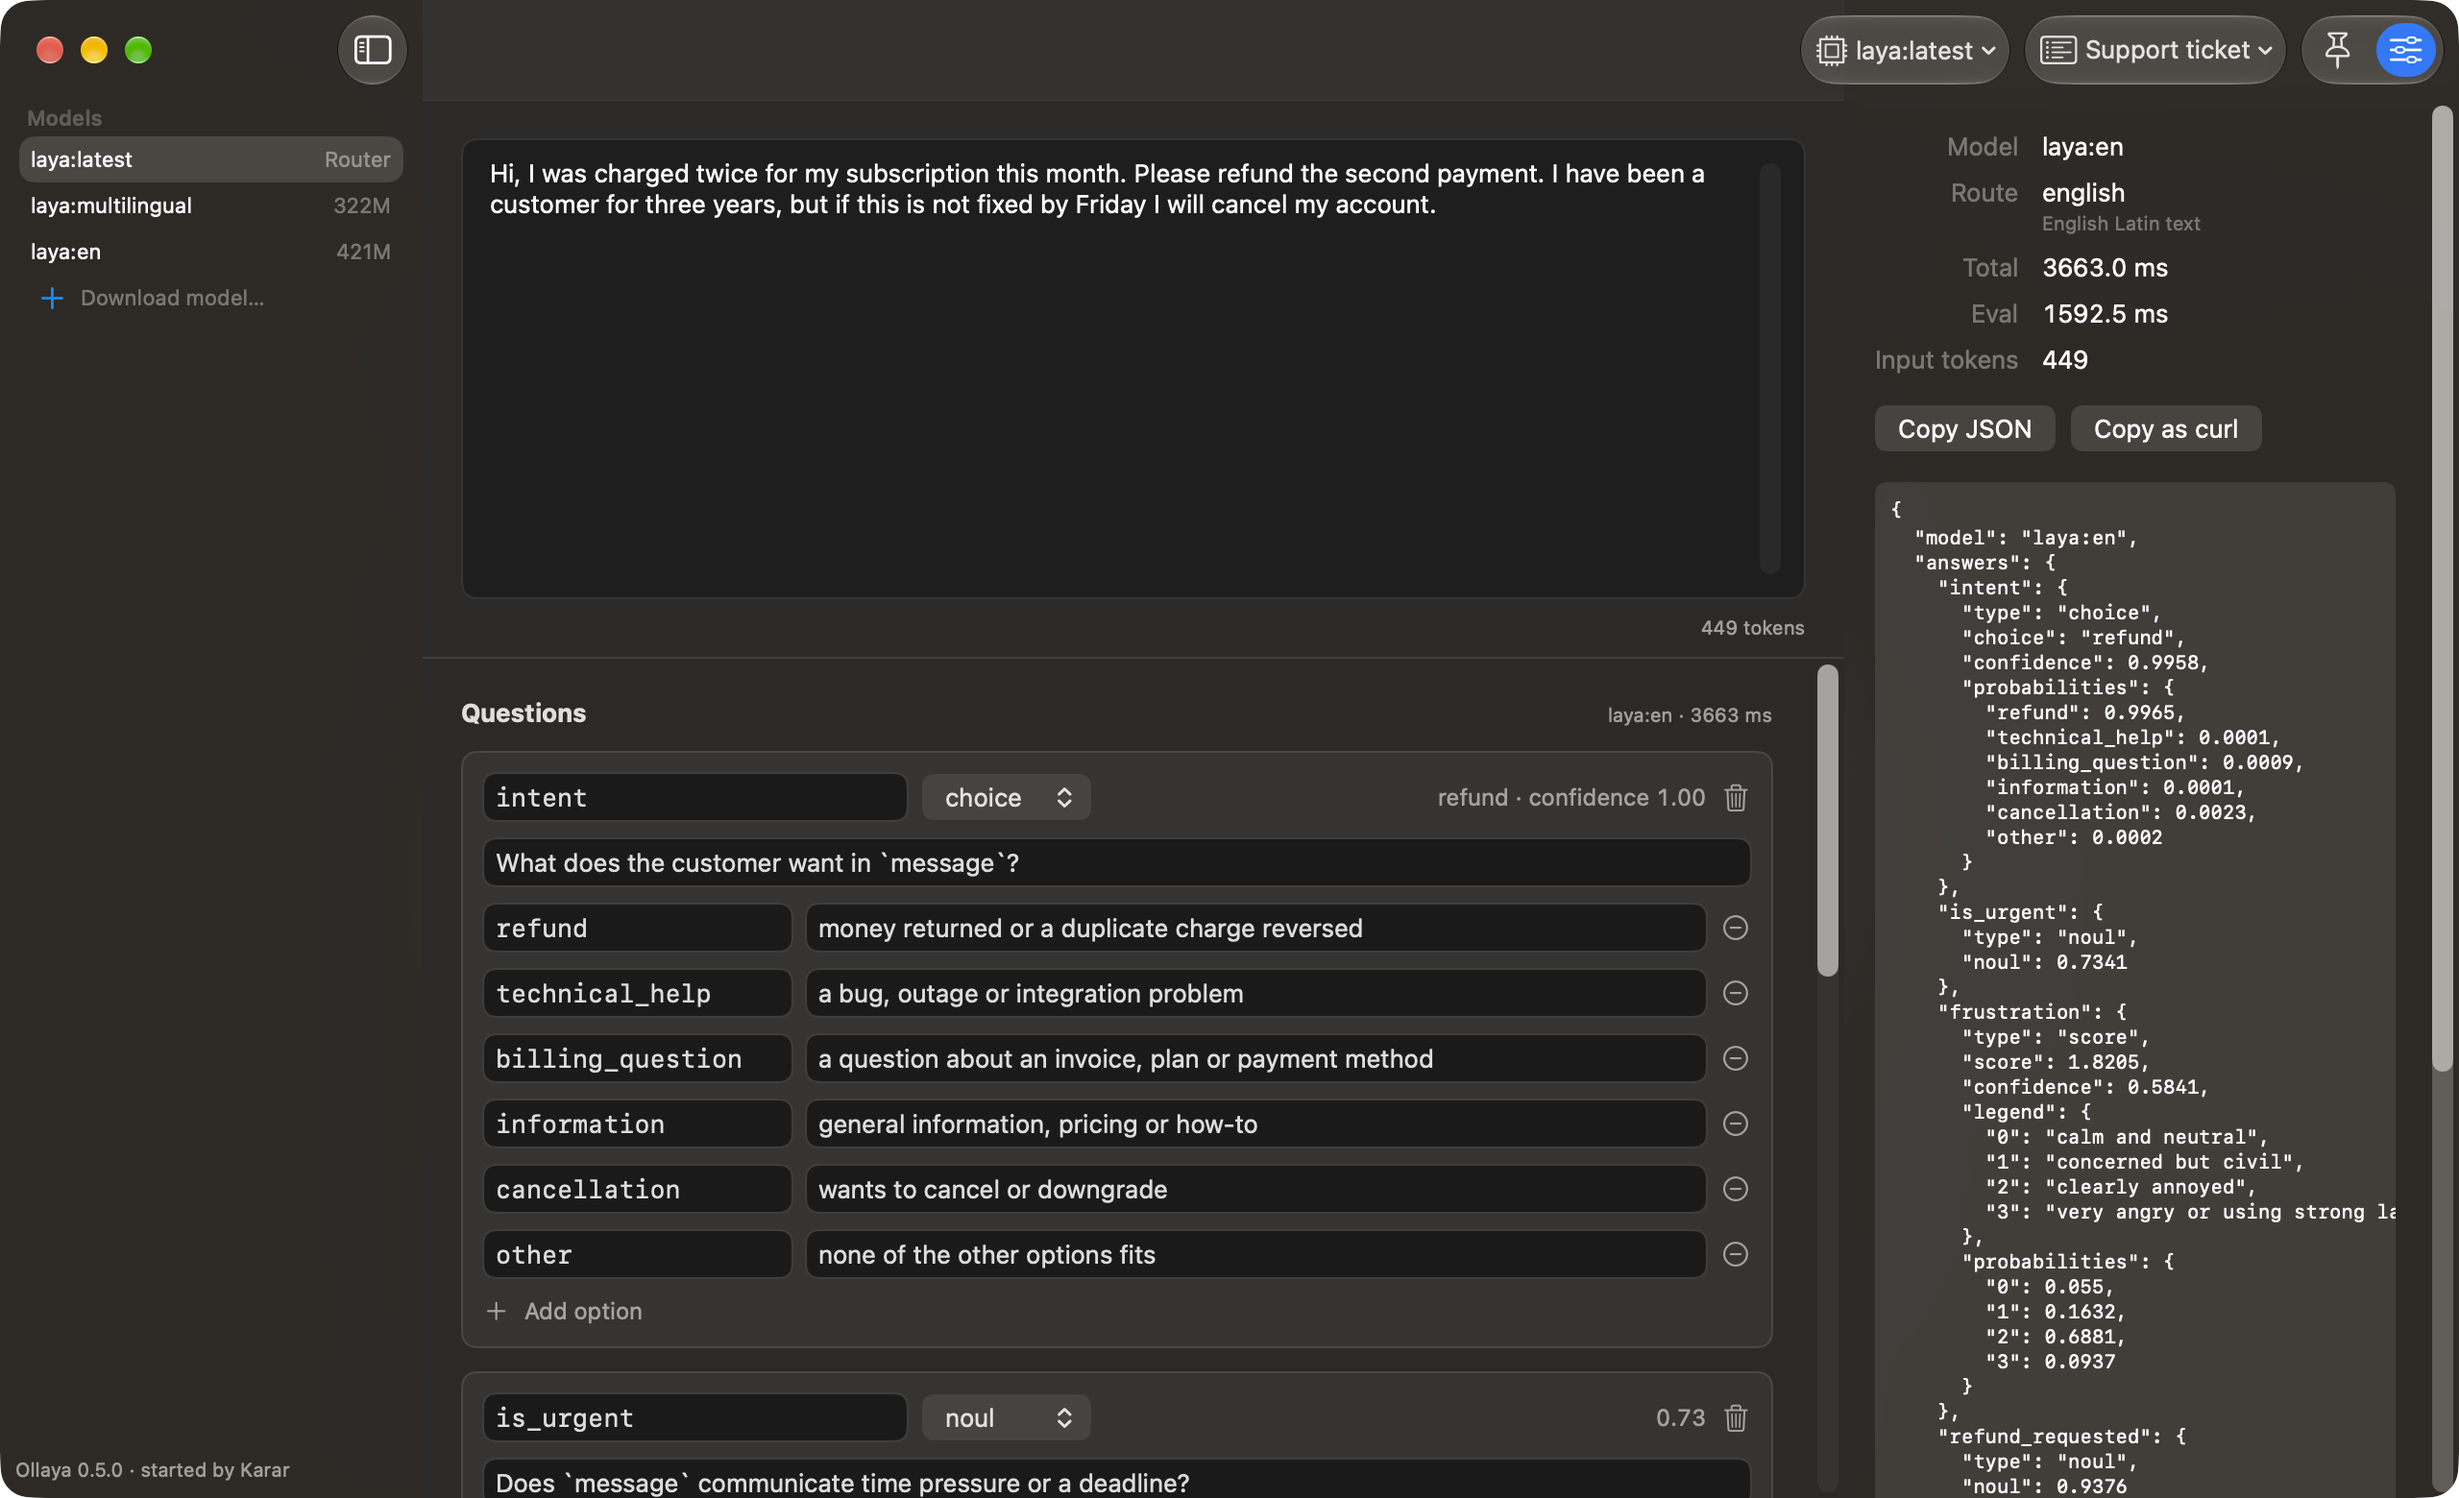
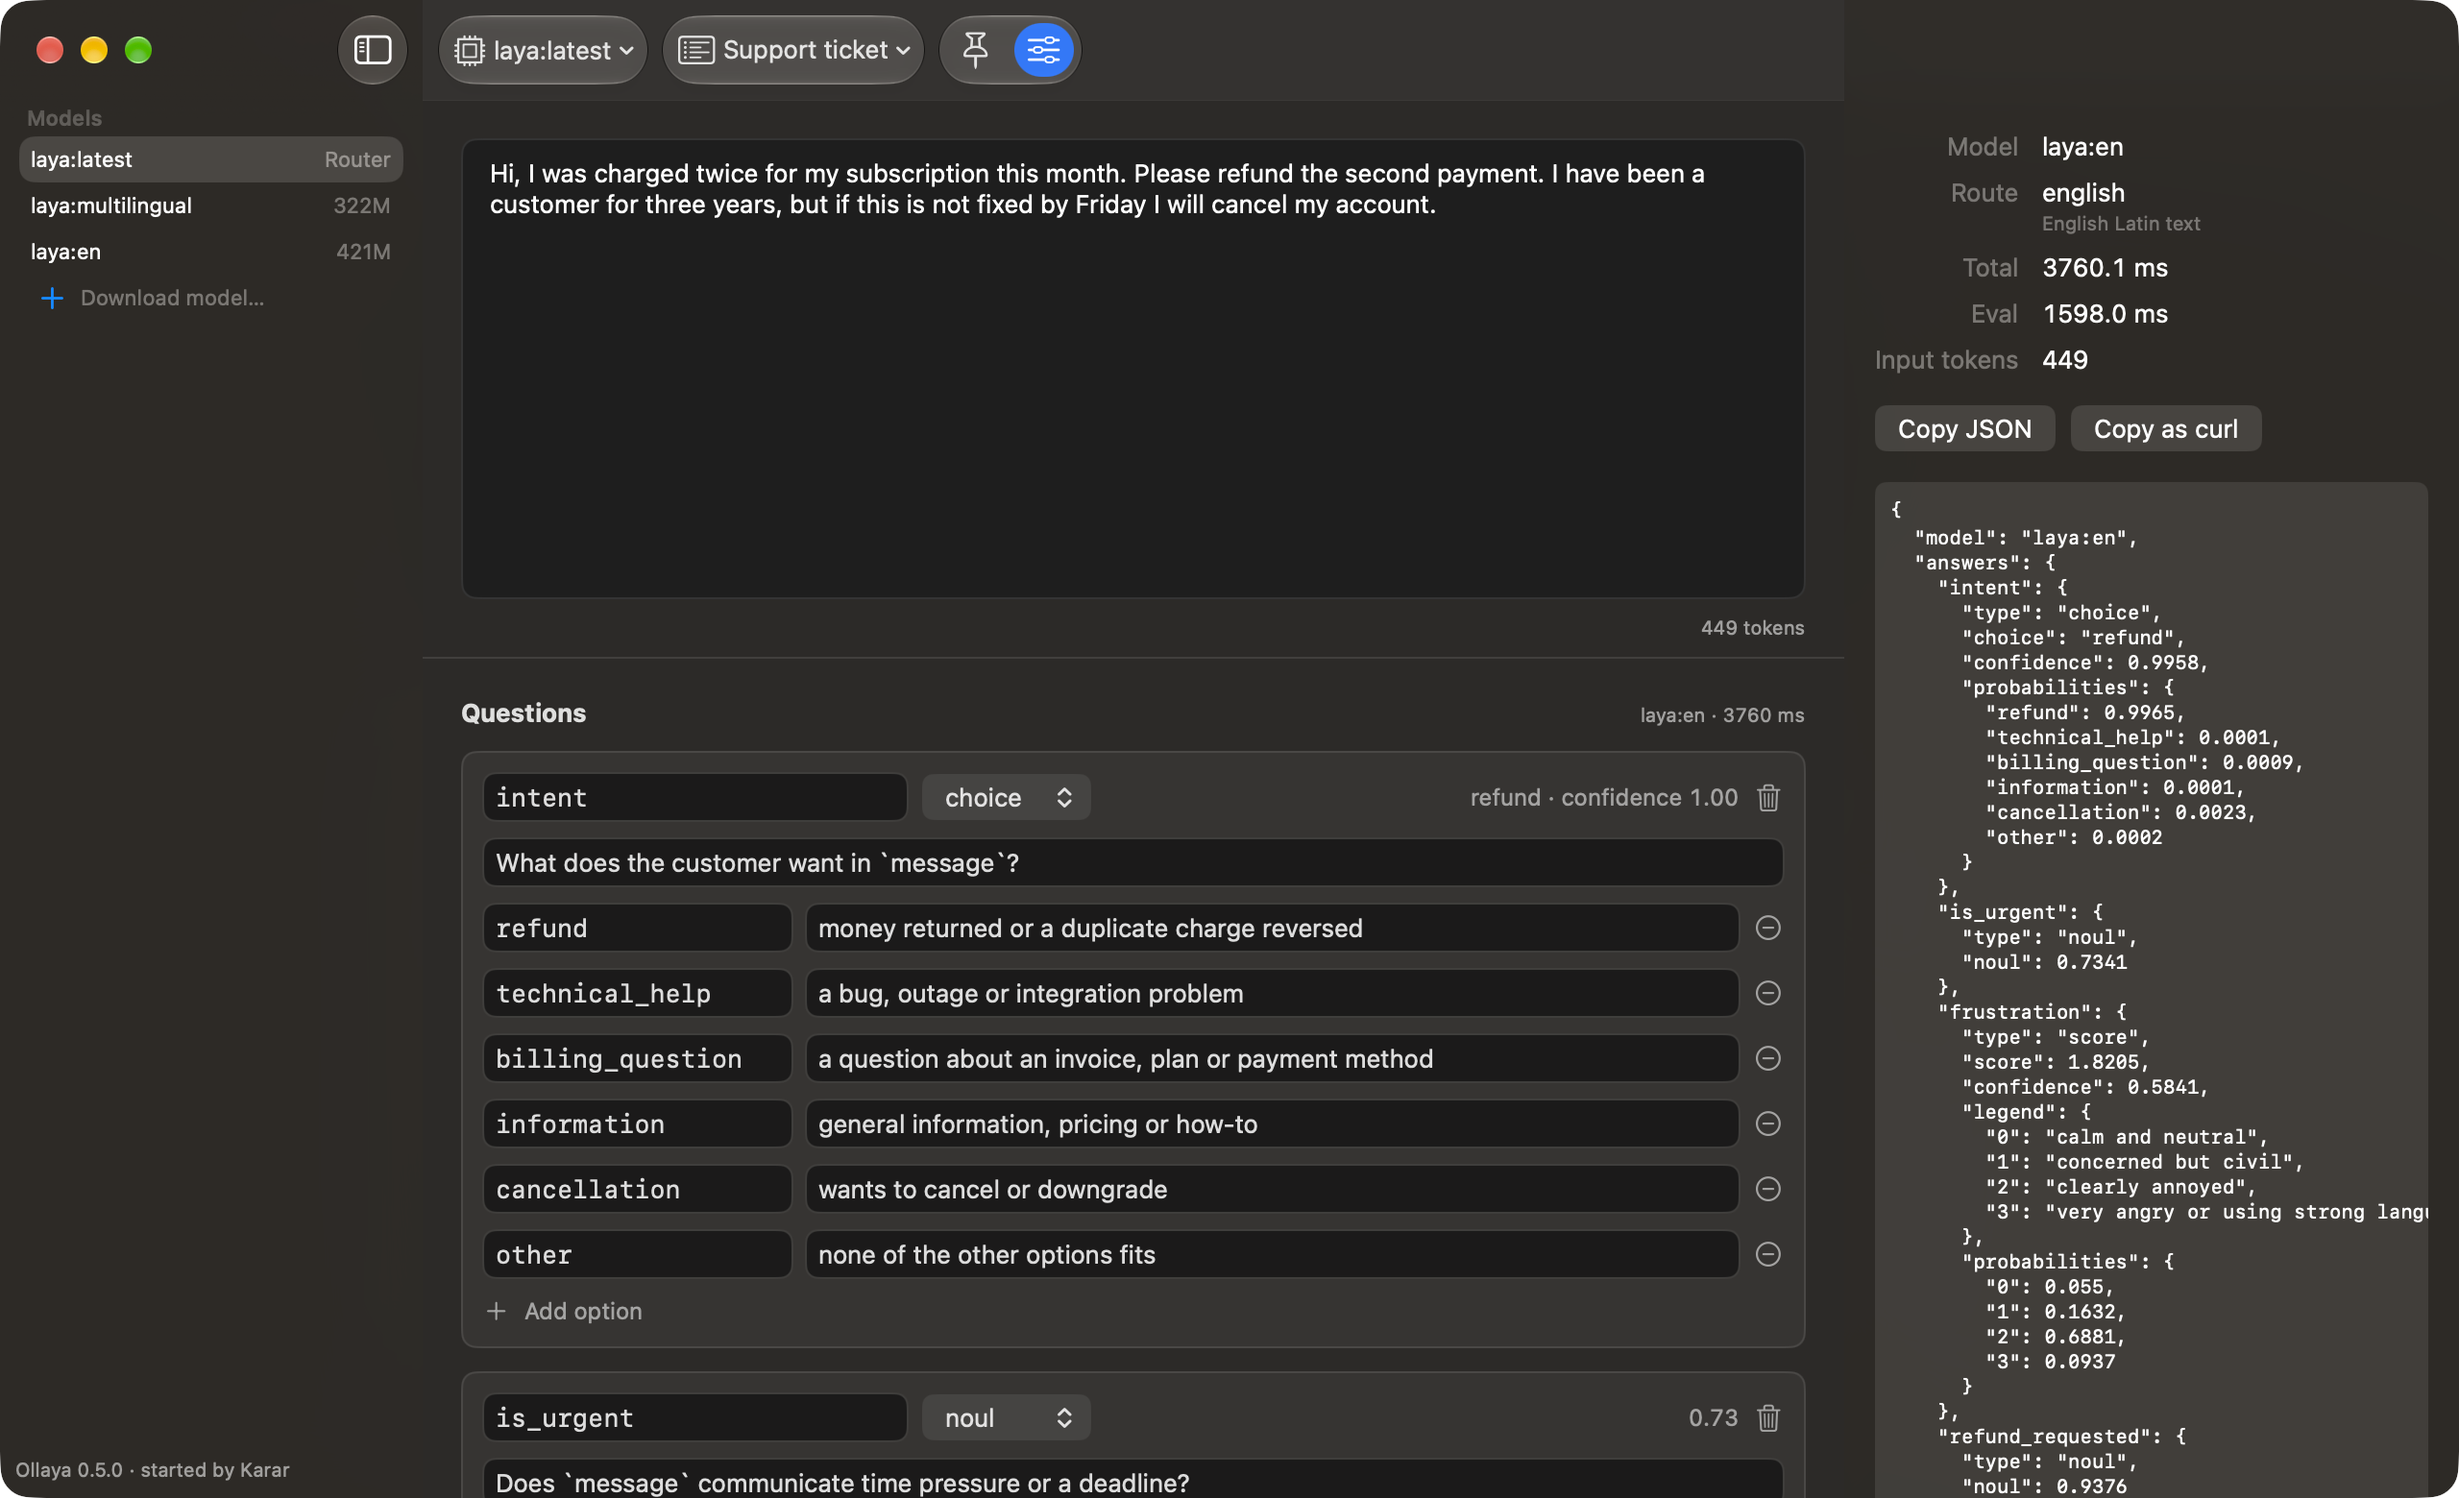
README: Open Anyway screenshot, screenshots with the leading toolbar
The Privacy & Security screenshot is the user's own from the v0.1.0
first launch. Roadmap notes: why the toolbar items moved to the leading
side.

diff --git a/docs/superpowers/plans/2026-09-24-karar-roadmap.md b/docs/superpowers/plans/2026-09-24-karar-roadmap.md
@@ -320,10 +320,15 @@ Ideas, not phases. Spec §2 lists auto-update as out of scope for v1.
   which is why the v0.1.0 README shots had labels). The style now sits on the Menu. With labels, the
   window title left too little room: at 720 pt with `laya:multilingual` the Question set menu went
   into the overflow (»). The title is removed from the toolbar on macOS 15+ (`toolbar(removing:
-  .title)`; it stays in the Window menu) and a `ToolbarItem { Spacer() }` keeps the items trailing
-  (`.primaryAction` did not). Checked at 720, 877 and 1100 pt, light and dark, with both SDKs. The
-  brief » when opening Advanced was not seen after the fix in either SDK at 60 fps (region video,
-  877 → 1050 pt growth and 1050 pt without growth); the v0.1.0 build was not recorded.
+  .title)`; it stays in the Window menu). Checked at 720, 877 and 1100 pt, light and dark, with both
+  SDKs. v0.1.1 kept the items trailing with `ToolbarItem { Spacer() }`; the user then found » on the
+  right with the sidebar button gone whenever Advanced was on and the sidebar hidden. Reproduced
+  with a throwaway XCUITest that clicks "Hide Sidebar" (Karar has no ⌃⌘S: no `SidebarCommands`)
+  plus a region video: with the inspector open and the sidebar hidden, ANY flexible item (the title
+  in v0.1.0, which is where its brief » came from, `Spacer()`, `ToolbarSpacer(.flexible)`) sends
+  the sidebar button into the overflow; `.primaryAction` does not move items right. So the items
+  now sit on the leading side with no flexible item (next release). Left: showing the sidebar
+  again with the inspector open flashes » for ~0.3 s in every layout tried (system animation).
 - Phase 6, UI tests (local, 6/6 pass in ~45 s): (1) Automation Mode must be approved in the prompt
   once per session; without it the runner fails after 60 s with "Timed out while enabling automation
   mode", and `automationmodetool status` says "disabled" even after approving. (2) The earlier

diff --git a/README.md b/README.md
@@ -50,6 +50,8 @@ app. If one of them is already running, Karar uses that engine and leaves it run
 3. Open **System Settings → Privacy & Security**, scroll down to the message about Karar and click
    **Open Anyway**, then confirm. You only do this once.
 
+   <img alt="System Settings, Privacy &amp; Security: “Karar.app” was blocked to protect your Mac, with the Open Anyway button" src="docs/screenshots/open-anyway.png" width="500">
+
 On first launch Karar asks which model to download. `laya` is recommended: fast, 100+ languages,
 about 1.5 GB.
 
